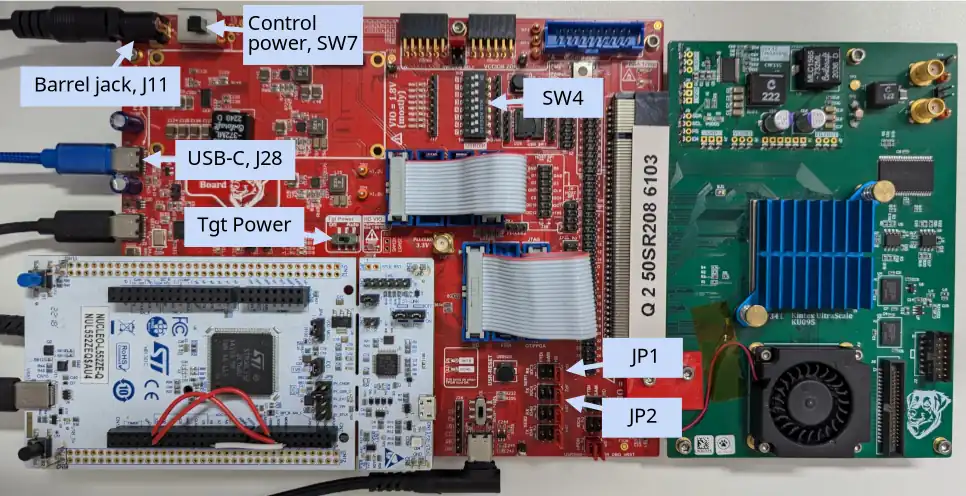
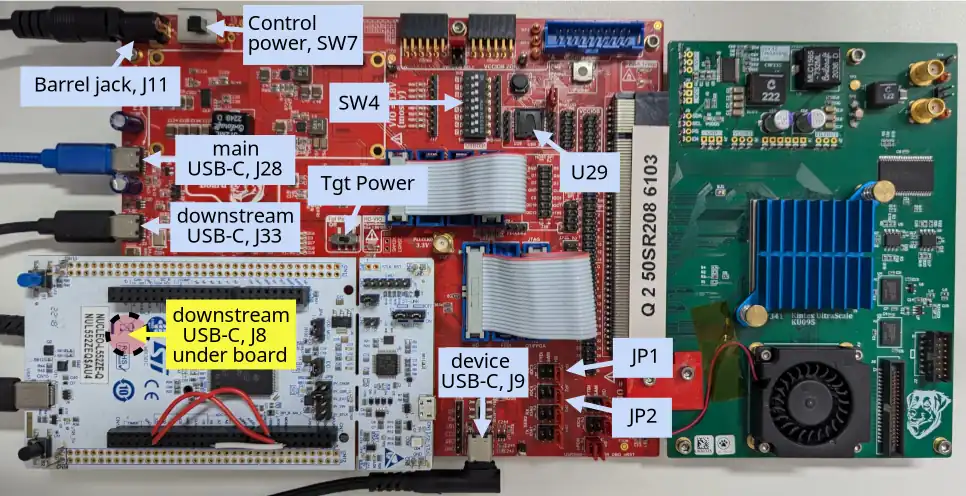
doc: Improve CW340 setup instructions for SPI and USB connections

diff --git a/doc/getting_started/setup_fpga.md b/doc/getting_started/setup_fpga.md
@@ -181,24 +181,27 @@ sudo udevadm control --reload-rules && sudo service udev restart && sudo udevadm
 The CW340 board should be powered via the included DC power adapter.
 To this end:
 1. Turn off the board by setting the *Control Power* switch (top left corner, *SW7*) to the right (towards the OpenTitan logo).
-2. Ensure the *Tgt Power* switch (center of the board) is set to the right, towards the *Auto* option.
-3. Plug the DC power adapter into the barrel jack (*J11*) in the top left corner of the board.
-4. Use a USB-C cable to connect your PC (*host*) with the *USB-C* connector (*J28*) in the lower left corner on the board.
-5. Set the jumpers *JP1* and *JP2* to select the UART0 routing:
+1. Ensure the *Tgt Power* switch (center of the board) is set to the right, towards the *Auto* option.
+1. Plug the DC power adapter into the barrel jack (*J11*) in the top left corner of the board.
+1. Use a USB-C cable to connect your PC (*host*) with the *USB-C* connector (*J28*) in the lower left corner on the board.
+1. Set the jumpers *JP1* and *JP2* to select the UART0 routing:
    1. Set to `HD` if you are using the HyperDebug board, as also explained in section [Before Connecting HyperDebug to the CW340 Base Board](#before-connecting-hyperdebug-to-the-cw340-base-board).
    2. Set to `FTDI` to (likely) route the UART0 to `/dev/ttyUSB2`.
    3. Set to `SAM` to route the UART0 to `/dev/ttyACM0`.
-6. Make sure the DIP switch SW4 on the top side of the board has all switches (1-8) in the ON position.
-7. Make sure the DIP switches on the bottom side of the board are set up as follows:
+1. Make sure the DIP switch SW4 on the top side of the board has all switches (1-8) in the ON position.
+1. Make sure the DIP switches on the bottom side of the board are set up as follows:
    - SW1, SW2: all switches (1 to 8) in the OFF position
    - SW3: switch 1 in the ON position, switch 2, 3 in the OFF position.
    - SW10, SW11: all switches (1 to 3) in the ON position
    - SW12: all switches (1 to 6) in the ON position
    - DIP switch connected to IOB0 - IOB7: all switches (1 to 8) in the ON position
    - DIP switch connected to IOB8 - IOB12: switch 1 to 7 in the ON position, switch 8 in the OFF position.
-8. Depending on your use case, do one of the following:
-   1. If you are connecting a HyperDebug board to your CW340 base board, follow instructions in the [HyperDebug Board](#hyperdebug-board) section.
-   2. Otherwise, move the *Control Power* switch (top left corner, *SW7*) to the left (towards the barrel jack) to power on the board.
+1. If you are connecting a HyperDebug board to your CW340 base board, follow instructions in the [HyperDebug Board](#hyperdebug-board) section.
+1. Afterwards, depending on your use case, do the following::
+   - If you want to run SPI host tests, make sure a compatible flash chip is inserted in the U29 socket (right of the SW4).
+     Without a flash you will most likely see the error `SFDP signature is 0xffffffff. CHECK-fail: Expected to find the SFDP signature!`, see below.
+   - If you want to run USB host tests, make sure to connect the device USB port on J9 to the CW340's internal downstream USB hub port 4 on J8 (some test assume this connection).
+1. Finally, move the *Control Power* switch (top left corner, *SW7*) to the left (towards the barrel jack) to power on the board.
 
 After completing the rest of the FPGA setup process, you can confirm that these DIP switches are configured correctly by running the following test targets:
 
@@ -217,6 +220,18 @@ Find below the top view and a bottom view photos of a fully configured CW340 boa
 
 [![bottom view of the CW340 board](cw340-bottom-lowres.webp)](cw340-bottom.webp)
 
+#### SFDP signature error
+If a test fails with
+```
+SFDP signature is 0xffffffff.
+CHECK-fail: Expected to find the SFDP signature!
+```
+most likely something is wrong with the flash in U29.
+Check that there is a flash chip inserted and that it is properly mounted.
+This error can happen when the flash chip is not properly connected, leaving the data pin pulled high and causing the system to read a continuous '1.
+
+Note that SPI errors during bootstrapping where the ROM uses the SPI can result in similar SFDP errors.
+In this case, such an error indicates that opentitantool cannot communicate with the ROM via HyperDebug (which could be due to many causes, including a wrong bitstream or a connection issue).
 
 #### HyperDebug Board
 
